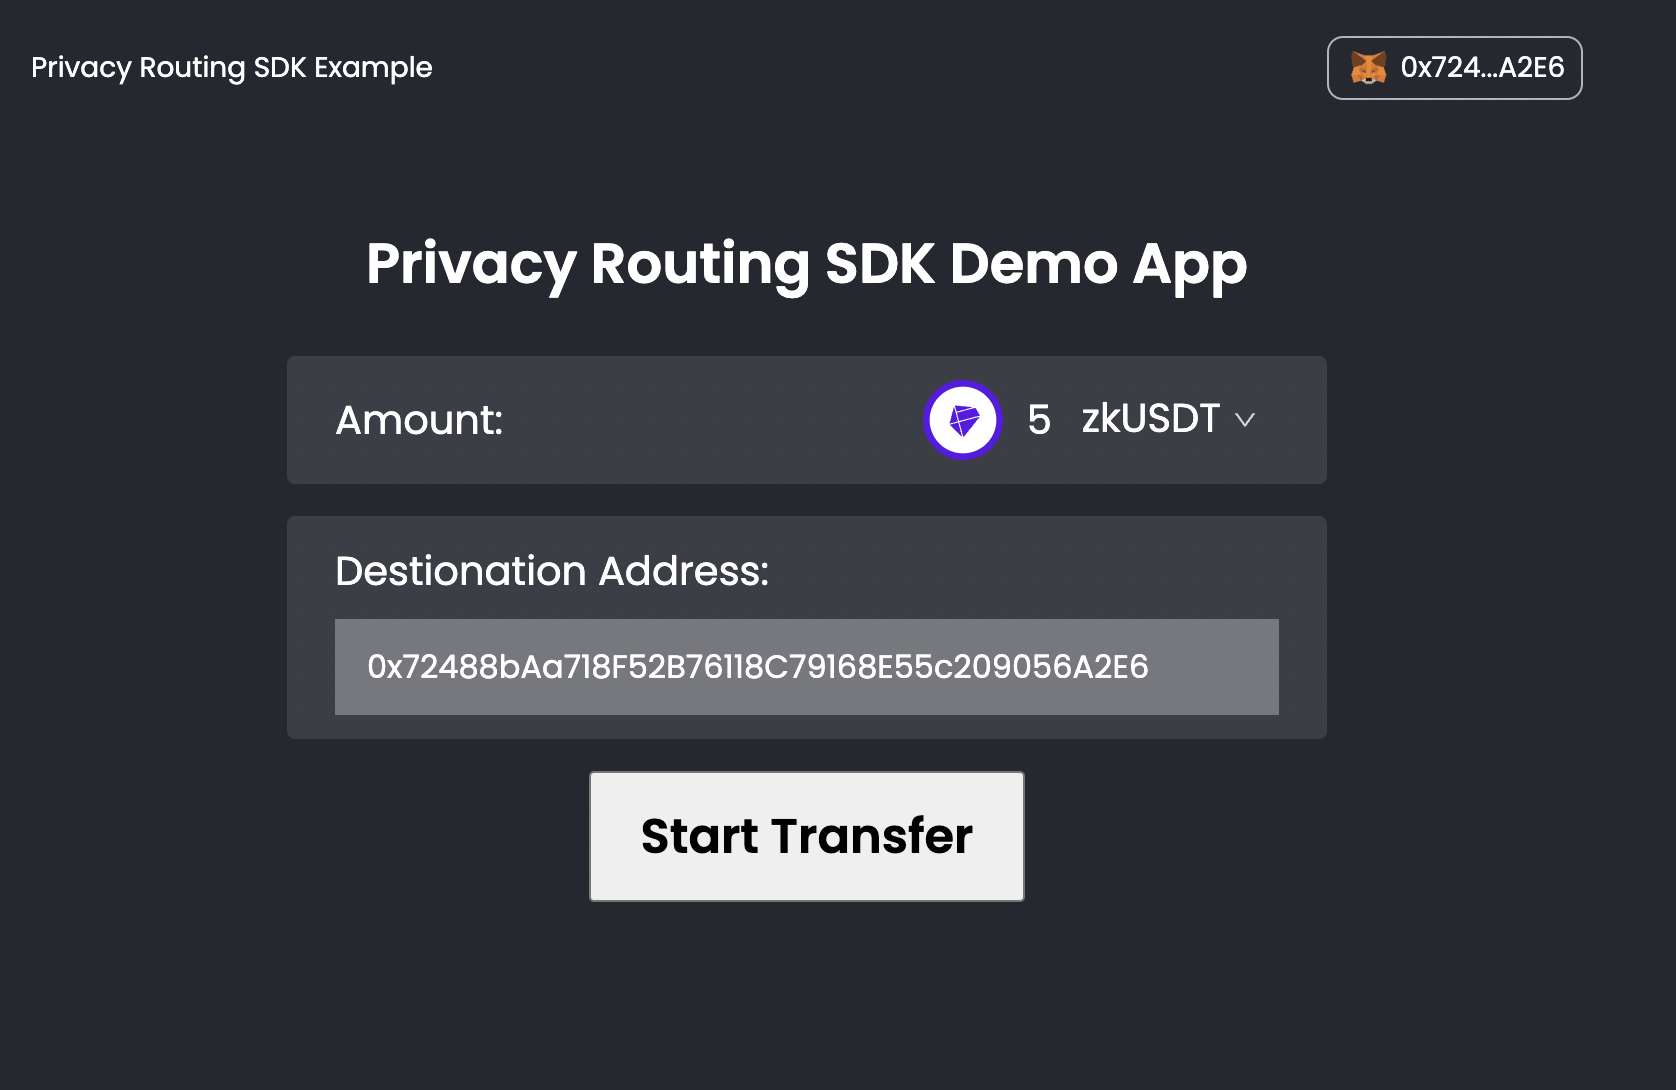
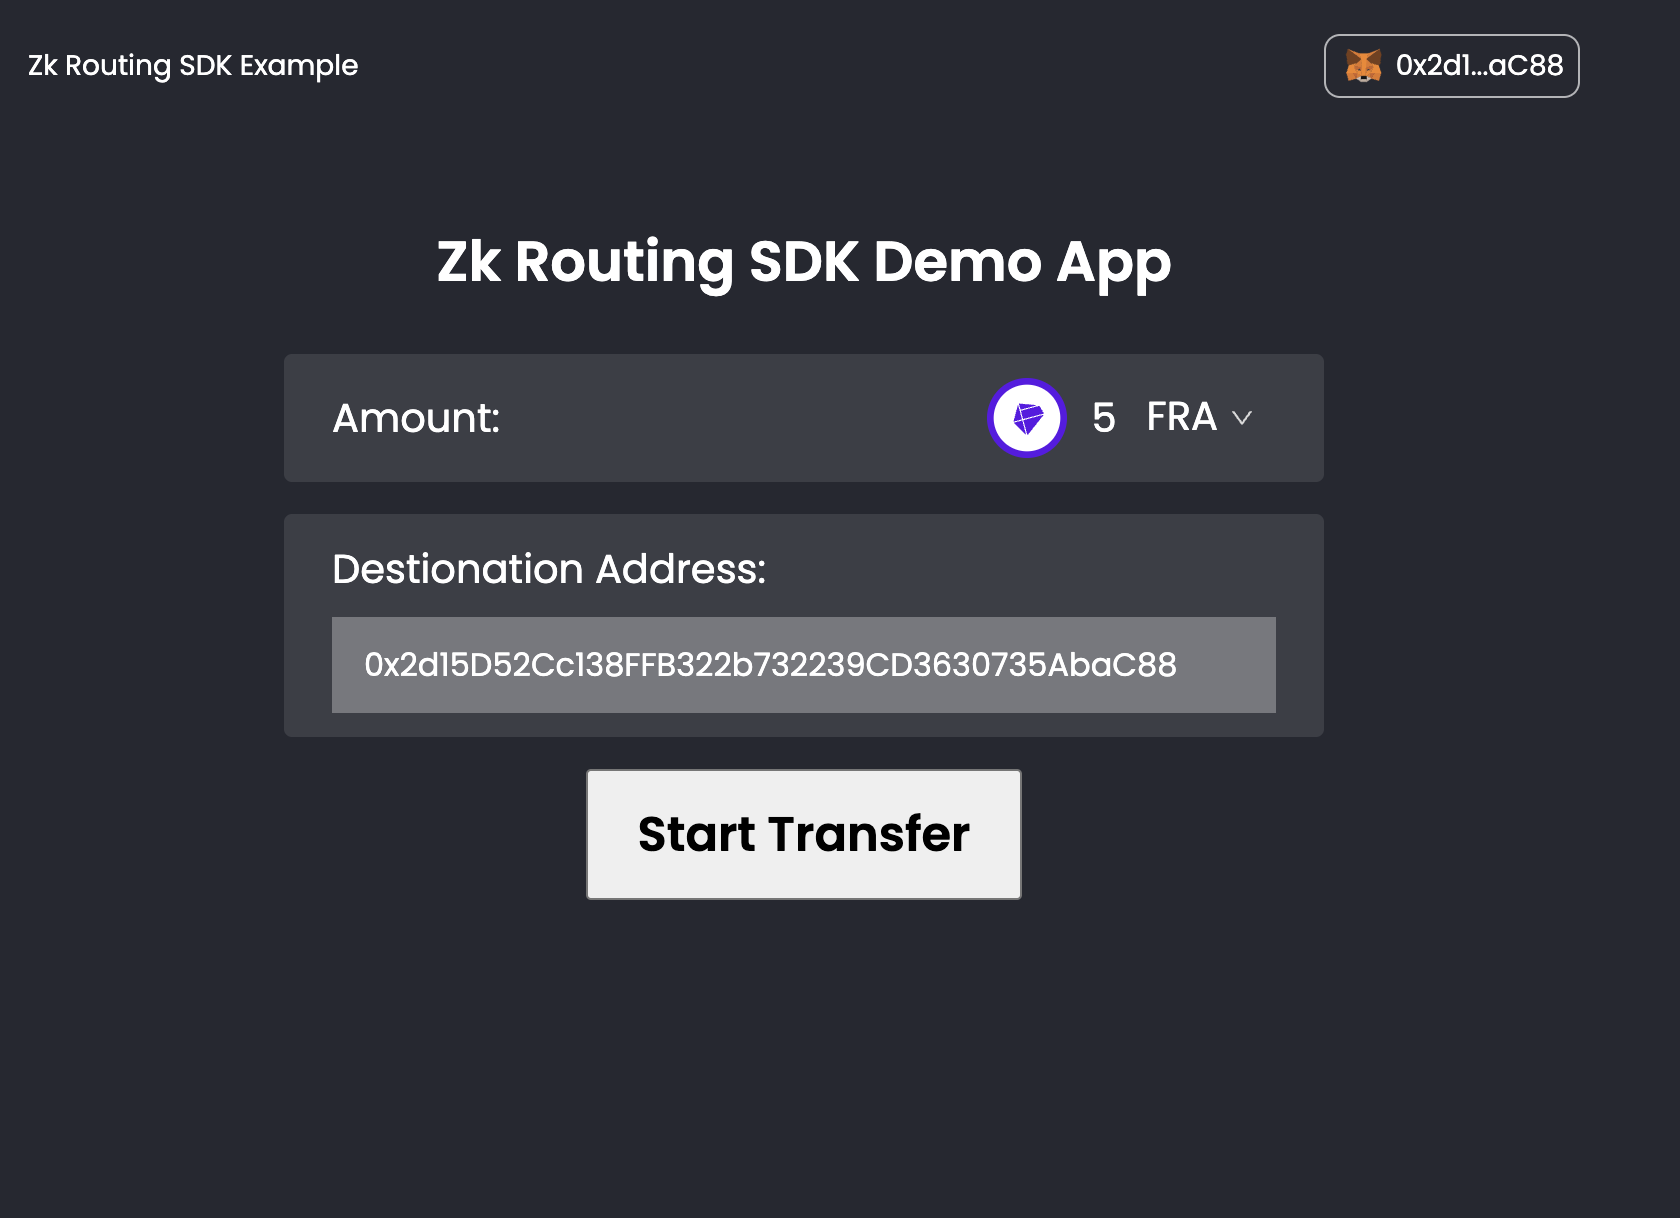
fix: qa01 for example

diff --git a/src/containers/TransferModal/index.tsx b/src/containers/TransferModal/index.tsx
@@ -26,7 +26,6 @@ const TransferModal: React.FC<ITransferModalProps> = ({ sendInfo, onClose }) => 
       const findoraWallets = await findora.keypair.getWallet();
       const { walletStart, walletEnd, anonWallet } = findoraWallets;
 
-   
       let depositTxnReceipt = null;
       if (sendInfo.tokenAddress) {
         // FRC20(Customized token) To Findora Native Chain
@@ -53,7 +52,7 @@ const TransferModal: React.FC<ITransferModalProps> = ({ sendInfo, onClose }) => 
 
    
       const { response: sids } = await findora.apis.getOwnedSids(walletStart.publickey);
-      const barToAbarResult =  await findora.transfer.barToAbar(findoraWallets, sids);
+      const barToAbarResult = await findora.transfer.barToAbar(findoraWallets, sids);
       if (barToAbarResult.txnLog) throw new Error(`barToAbar Error: ${barToAbarResult.txnLog}`);
       console.log('barToAbar txnHash: ', barToAbarResult.txnHash);
 
@@ -61,8 +60,6 @@ const TransferModal: React.FC<ITransferModalProps> = ({ sendInfo, onClose }) => 
       const abarToBarResult = await findora.transfer.abarToBar(anonWallet, walletEnd, barToAbarResult.commitments);
       if (abarToBarResult.txnLog) throw new Error(`abarToBar Error: ${abarToBarResult.txnLog}`);
       console.log('abarToBar txnHash: ', abarToBarResult.txnHash);
-
-   
 
       let assetCode = '';
       if (sendInfo.tokenAddress) {

diff --git a/src/config/index.ts b/src/config/index.ts
@@ -7,7 +7,7 @@ export interface ISendInfo {
   destinationAddress: string;
 }
 
-export const FINDORA_EVM_CHAIN_ID = '2154'; // Findora EVM
+export const FINDORA_EVM_CHAIN_ID = '3333'; // Findora EVM
 
 export const FINDORA_NETWORK = {
   chainId: FINDORA_EVM_CHAIN_ID,
@@ -17,13 +17,13 @@ export const FINDORA_NETWORK = {
     symbol: 'FRA',
     decimals: 18,
   },
-  rpcUrls: ['https://prod-forge.prod.findora.org:8545'],
-  blockExplorerUrls: ['https://prod-forge-blockscout.prod.findora.org/'],
+  rpcUrls: ['https://dev-qa01.dev.findora.org:8545'],
+  blockExplorerUrls: ['https://dev-qa01-blockscout.dev.findora.org/'],
 };
 
 export const CONTRACTS_ADDRESS = {
-  prismBridge: '0x899d4d8f441E5B59EB21ceb58fce723bb5A85C55',
-  prismBridgeLedger: '0xBeeBd2B2E9C29E416bF5d774526644f7C854cE01',
+  prismBridge: '0x5f9552fEd754F20B636C996DaDB32806554Bb995',
+  prismBridgeLedger: '0xa897D081bf941bBD60E831EDFE219D5887eFC755',
 };
 
 export const DEFAULT_SEND_INFO: ISendInfo = {
@@ -37,5 +37,5 @@ export const DEFAULT_SEND_INFO: ISendInfo = {
 
 export const TOKENS = [
   { value: '', label: 'FRA' },
-  { value: '0x5b15Cdff7Fe65161C377eDeDc34A4E4E31ffb00B', label: 'zkUSDT' },
+  { value: '0xA1Ba325d71204e89cA44C5378E84dc1AAcD45f9e', label: 'zkUSDT' },
 ]
